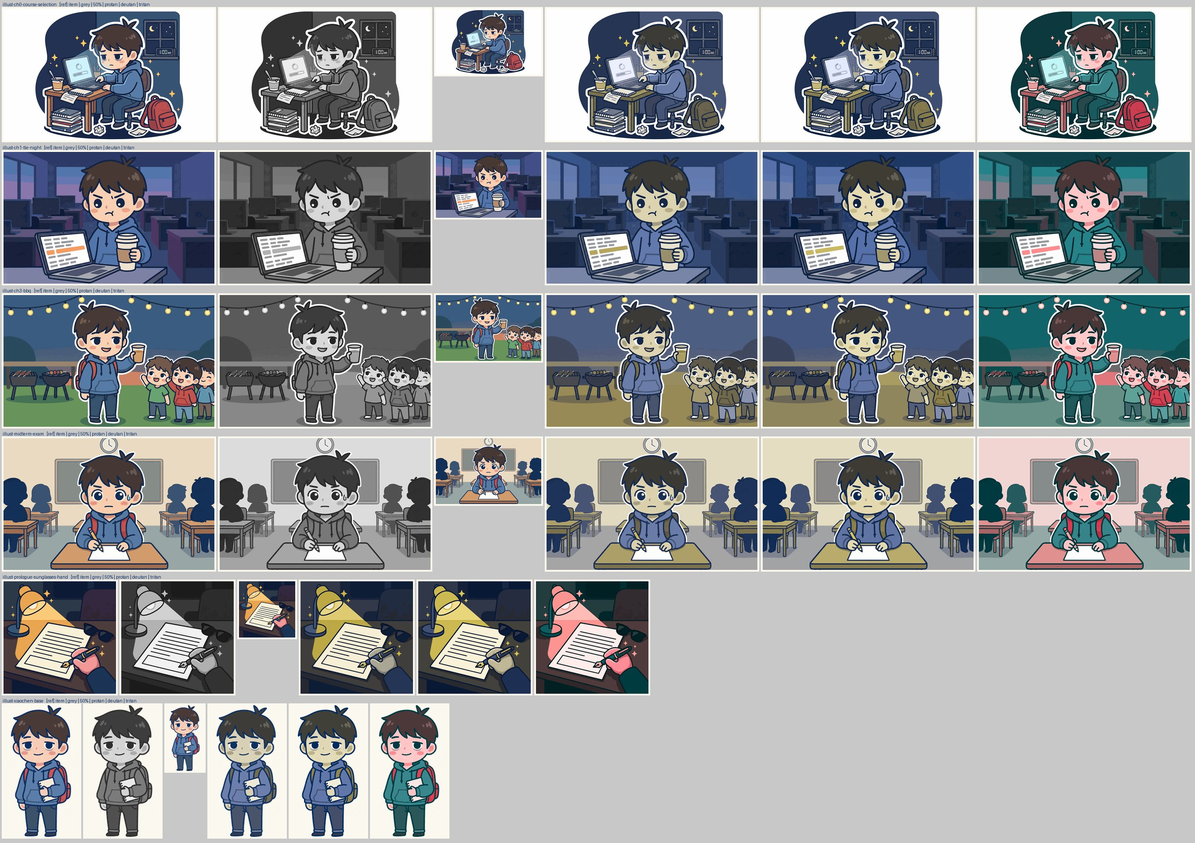
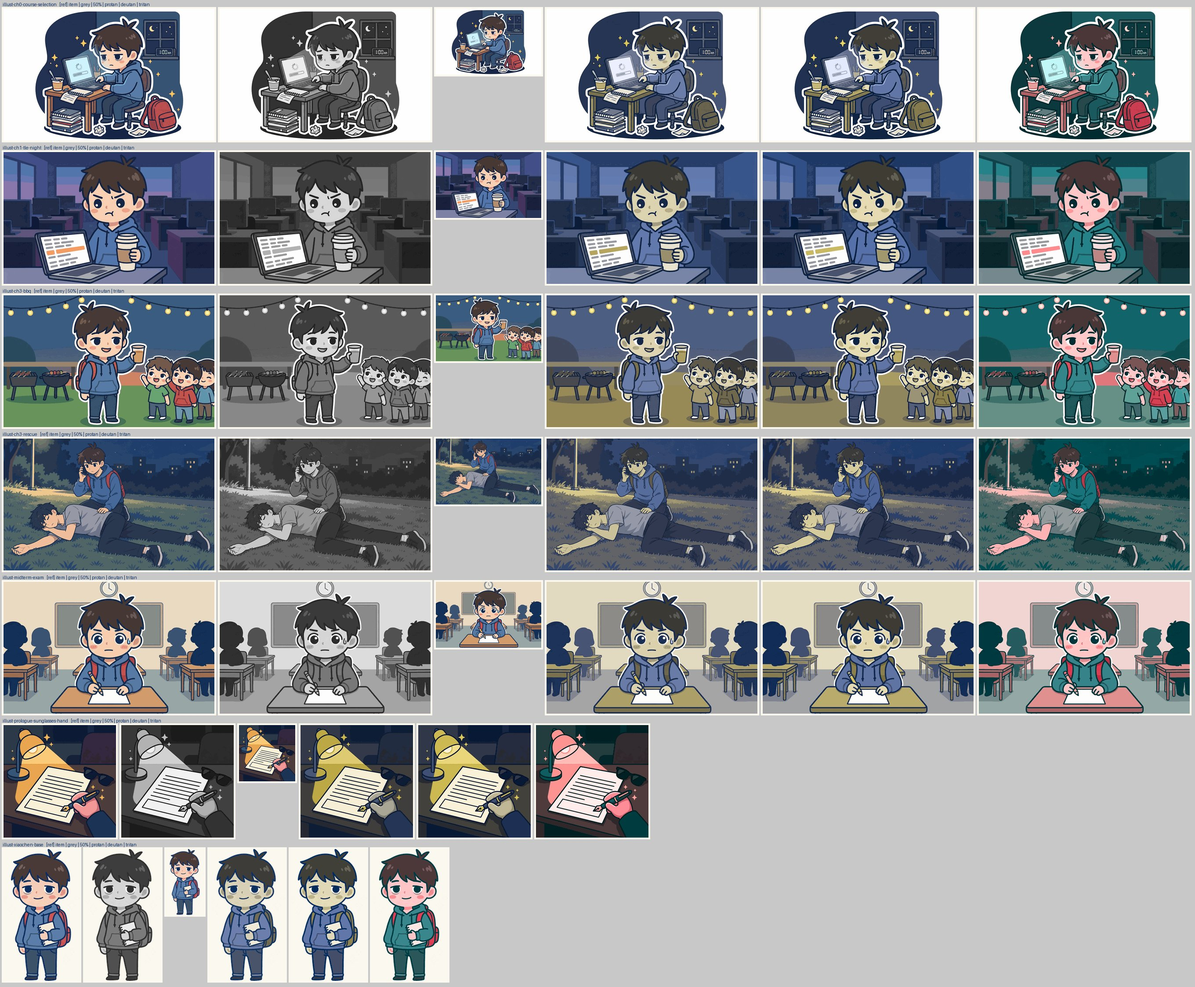
Publish rescue illustration after medical pose review
Wang Chen-ai approved the recovery position in the v2 image, so it leaves
HOLD and goes to public/assets/illustrations. The approval is recorded in
the generation log. A released id now drops its stale hold reason and
held-only display file.

diff --git a/tools/art/postprocess.py b/tools/art/postprocess.py
@@ -45,9 +45,7 @@ NOT_ADOPTED = {
     "prop-night-window": "drawn as a slanted perspective strip that shrinks to a sliver at 128 x 32; "
                          "art-src/drafts/props/window-night-band.png is drawn in code instead",
 }
-HOLD = {"illust-ch3-rescue": "v2 passes the self-check (side-lying, upper knee on the ground, upper hand under "
-                             "the cheek; head tilt is mild); waits for the recovery-position review by "
-                             "Wang Chen-ai (6.5)"}
+HOLD = {}  # id -> reason; held images stay out of public/assets until their review passes
 
 # Step 4 outcome after looking at every raw image: ids with generated writing left in.
 TEXT_LEFT = {}
@@ -243,6 +241,7 @@ def do_illustration(aid):
         disp.save(out / f"{aid}-display.png", optimize=True)
         outputs.append(f"art-src/ai/processed/illustrations/{aid}-display.png")
     else:
+        (out / f"{aid}-display.png").unlink(missing_ok=True)  # left over from while it was held
         info["png_colors"] = save_small(disp, PUB / "illustrations" / f"{aid}.png")
         outputs.append(f"public/assets/illustrations/{aid}.png")
     info["outputs"] = outputs
@@ -518,6 +517,8 @@ def update_log(aid, info):
         log["status"] = "held" if aid in HOLD else "auto-processed"
         if aid in HOLD:
             log["reason"] = HOLD[aid]
+        else:
+            log.pop("reason", None)
     log["processed"] = info
     p.write_text(json.dumps(log, ensure_ascii=False, indent=1) + "\n", encoding="utf-8")
 

diff --git a/art-src/ai/raw/README.md b/art-src/ai/raw/README.md
@@ -20,7 +20,7 @@
 | `prop-glucose-box` | 白箱藍帶，與倉庫色票 `#F2D27A` 矛盾；白色箱身也會讓可推箱的白色角標看不見 | 指南第 7.4 節已統一為黃色箱身加白標籤。依第 7.4 節「紙箱類共用一個方箱骨架」，五個方箱類 AI 圖（葡萄糖箱、乙醛箱、核心傾印箱、福利紙箱兩態）第 1 步判定不用，遊戲中改用 `art-src/drafts/props/` 的程式方箱骨架 |
 | `prop-exam-projector` | 底色為淺灰而非純白 | 去背容差已涵蓋，無殘留 |
 | `illust-ch0-course-selection` | 畫成白底貼紙圖，不是滿版場景，與其他插圖不一致 | 可接受；若要統一則重生 |
-| `illust-ch3-rescue` | 側躺姿勢需醫療審查 | PM 先依指南第 6.5 節的四個條件自查：側臥符合；兩腿伸直併攏，上方腿沒有彎曲撐地；頭沒有明顯後仰；頭枕在下方手臂上，上方手臂橫在身前而不是墊在臉頰下。判定不合格，prompt 已改為逐肢體描述的第二版。第二版以 ChatGPT 生成，自查結果：側臥符合；靠近畫面的上方腿髖與膝皆彎曲、膝蓋在身前著地，遠側的下方腿伸直，符合；下方手臂伸直、掌心朝上，上方手背墊在臉頰下，符合；頭後仰幅度輕微，留給王晨嬡判斷。第一版原圖已由第二版取代，舊檔可從 Git 歷史取回。審過之前不放進 `public/assets/`（紀錄狀態為 `held`） |
+| `illust-ch3-rescue` | 側躺姿勢需醫療審查 | PM 先依指南第 6.5 節的四個條件自查：側臥符合；兩腿伸直併攏，上方腿沒有彎曲撐地；頭沒有明顯後仰；頭枕在下方手臂上，上方手臂橫在身前而不是墊在臉頰下。判定不合格，prompt 已改為逐肢體描述的第二版。第二版以 ChatGPT 生成，自查結果：側臥符合；靠近畫面的上方腿髖與膝皆彎曲、膝蓋在身前著地，遠側的下方腿伸直，符合；下方手臂伸直、掌心朝上，上方手背墊在臉頰下，符合；頭後仰幅度輕微，留給王晨嬡判斷。王晨嬡於 2026-10-23 審過第二版的姿勢（經 PM 轉達，記在生成紀錄的 `review`），已放進 `public/assets/illustrations/`。第一版原圖已由第二版取代，舊檔可從 Git 歷史取回 |
 | 多張頭像 | 背景有星星裝飾 | 後製腳本自動移除脫離主體的小型黃、白、粉橘色塊，汗滴與腺苷的「z」保留 |
 | `portrait-adenosine-base` | 虛線輪廓有缺口，白底去背會灌進淡紫色身體 | 後製腳本對這張先封閉外框缺口再去背 |
 | `portrait-toast-boss-*` | 炭灰西裝與墨藍只差 54（RGB 距離），外框校正門檻過寬時西裝會被染成墨藍 | 門檻已收到 34 |

diff --git a/tools/art/README.md b/tools/art/README.md
@@ -47,6 +47,6 @@
 - 酒精桶在像素化後由腳本退飽和 30% 並畫上 2 像素石灰斜線帶（第 5.6 節）。
 - 夜間窗戶改用 `art-src/drafts/props/window-night-band.png` 的程式版（128 × 32 橫向窗帶），AI 圖判定不用。
 - 證據軟木牆只取 AI 圖中央 60%，去掉木框後做成無縫紋理。
-- 阿凱救援插圖第一版未通過復甦姿勢自檢（雙腿伸直、頭枕在下方手臂），須以 v2 prompt 重生，並在王晨嬡審過第 6.5 節的姿勢前不進 `public/assets/`。
+- 阿凱救援插圖第一版未通過復甦姿勢自檢（雙腿伸直、頭枕在下方手臂），以 v2 prompt 重生後由王晨嬡審過第 6.5 節的姿勢才放進 `public/assets/`。需要審查的圖放進 `postprocess.py` 的 `HOLD`，審過前只輸出到 `art-src/ai/processed/`。
 - 肝臟世界的主地板改用程式畫的六角磚（格位 0 至 2 為素磚、3 為帶標記磚，32 像素一週期，可任意排列）；AI 生成的格柵地板在 2 倍顯示時過於雜亂，改發佈為第二種地板 `tiles-liver-floor-grate`。
 - 地板紋理以半週期錯位交疊做成 64 像素一週期的無縫圖，量化成該世界地板的三階；圖塊集格位 0 至 3 是它的四個象限，鋪地板時須以 2 × 2 交錯排列，隨機混用會出現接縫。
